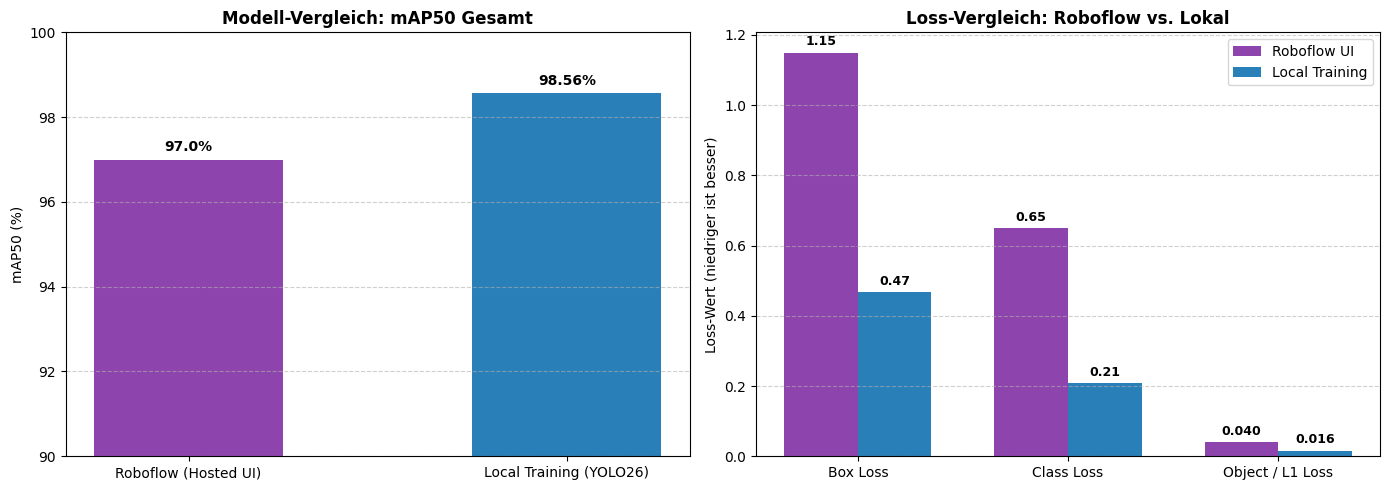
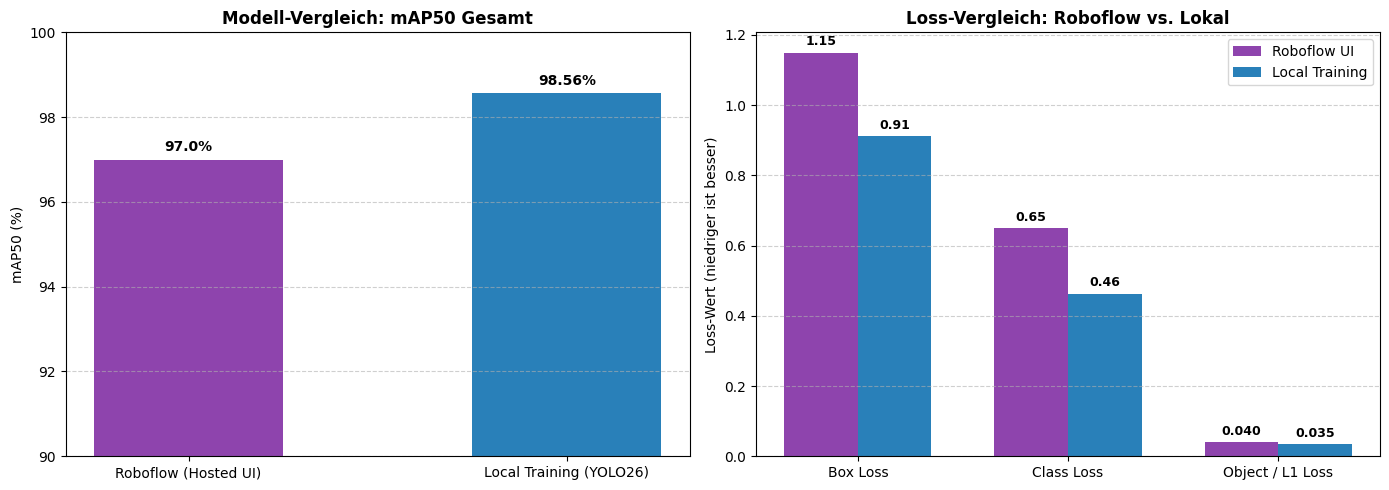
comapred train values woops

Changed region(s): [[0.6192, 0.2449, 0.6811, 0.6122], [0.743, 0.551, 0.8359, 0.7959], [0.8978, 0.8571, 0.9906, 0.9184]]

diff --git a/README.md b/README.md
@@ -1,7 +1,7 @@
 # Object Detection using deep learning models on Family Guy characters
 
 > [!IMPORTANT]
-> Given weights only inlcude for characters such as: `Peter, Stewie, Brian & Lois.` Both weights were traind with the `same initial dataset`, but adapted with customized augmentations tailored to their respective architectures such as `YOLO26 & CNN`. 
+> Given weights only inlcude for characters such as: `Peter, Stewie, Brian & Lois.` Both weights were trained with the `same initial dataset`, but adapted with customized augmentations tailored to their respective architectures such as `YOLO26 & CNN`. 
 
 ## Weights
 * `[yolo26-weights/best.pt]` YOLO26 architecture
